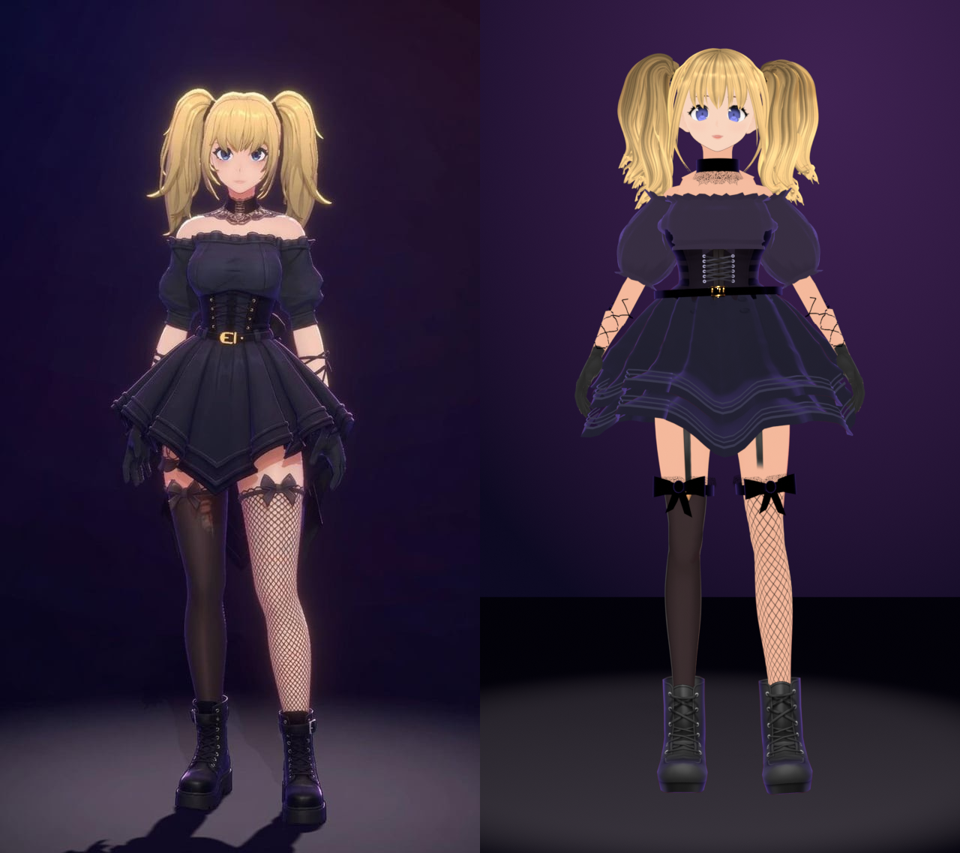
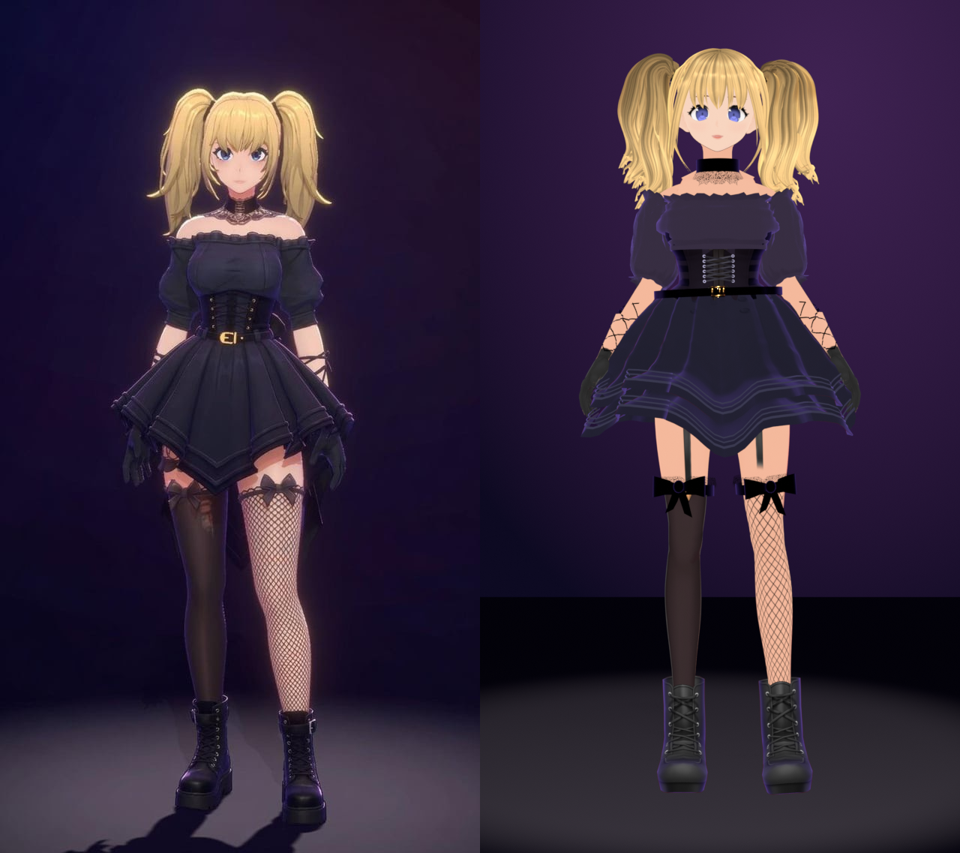
Goth agent: rounder bare shoulders, hanging sleeves, arms close to the body
The shoulders read wrong because the puff sleeves ballooned up above the
shoulder line (upper body ~28% wider than the reference) and covered the
shoulder caps, and the rebuilt arm was a thin tube. Now: an arm profile with
a round cap, a full upper arm and a taper to the elbow; sleeves that start
6 cm down the arm (2 cm underneath), are full just below the neckline and
gather into the cuff; bone weights for arm and sleeve copied from VRoid's own
long-sleeved blouse. The stage pose hangs the upper arms close to the body
with the forearms angled out, as in the reference; an edge overlay against
the reference now lines up at neckline, sleeves, bodice sides and belt.
The fitted blouse keeps the collar skin inside and never dips into the body
(it z-fought the skin on the upper back).

Claude-Session: https://claude.ai/code/session_011M9r3rTGgXhm4baeKDbpr3

diff --git a/build/tools/blender-agent-refine.py b/build/tools/blender-agent-refine.py
@@ -20,10 +20,14 @@ from mathutils.bvhtree import BVHTree
 p = argparse.ArgumentParser()
 p.add_argument('--blend', required=True); p.add_argument('--out', required=True)
 p.add_argument('--neckline', type=float, default=1.285)     # off-shoulder line on the torso (rest pose, m)
-p.add_argument('--sleeve-start', type=float, default=0.03)  # along the upper arm from the shoulder joint
+p.add_argument('--sleeve-start', type=float, default=0.06)  # along the upper arm from the shoulder joint
 p.add_argument('--sleeve-end', type=float, default=0.212)
-p.add_argument('--puff', type=float, default=0.80)        # (VRoid-sleeve mode only)
-p.add_argument('--puff-r', type=float, default=0.030)     # own sleeve: extra radius at the middle of the puff
+p.add_argument('--puff', type=float, default=0.80)
+p.add_argument('--sleeve-under', type=float, default=0.02)   # sleeve opening under the arm (it slants up to --sleeve-start on top)
+p.add_argument('--deltoid', type=float, default=0.005)
+p.add_argument('--arm-scale', type=float, default=1.0)     # upper-arm thickness
+p.add_argument('--sleeve-frill', type=float, default=0.014)  # ruffle on the sleeve's top edge       # extra shoulder-cap roundness        # (VRoid-sleeve mode only)
+p.add_argument('--puff-r', type=float, default=0.016)     # own sleeve: extra radius at the middle of the puff
 p.add_argument('--vroid-sleeves', action='store_true')     # keep and puff VRoid's sleeve instead of building one
 p.add_argument('--underbust', type=float, default=1.2)      # corset above this height becomes a navy bodice (0 = keep)
 p.add_argument('--skirt-len', type=float, default=0.30)     # bottom tier, between the points
@@ -257,6 +261,22 @@ BLOUSE = mats('N00_007_01_Tops_01_CLOTH'); SKIRT = mats('N00_002_03_Tops_01_CLOT
 PETTI = mats('N00_002_03_Tops_01_CLOTH_03'); CORSET = mats('N00_002_03_Tops_01_CLOTH_02'); TIE = mats('Accessory_Tie')
 SKIRT_TOP = max(v.co.z for f in bm.faces if f.material_index in SKIRT for v in f.verts)
 UA = B['J_Bip_L_UpperArm']; X0 = UA.head_local.x; AXY, AXZ = UA.head_local.y, UA.head_local.z
+BLW_co, BLW_w = [], []
+for v in {v for f in bm.faces if f.material_index in BLOUSE for v in f.verts}:
+    if abs(v.co.x) > X0 - 0.08 and v.co.z > AXZ - 0.14:
+        BLW_co.append(v.co.copy()); BLW_w.append(dict(v[dl].items()))
+BLKD = KDTree(len(BLW_co))
+for i_, c_ in enumerate(BLW_co): BLKD.insert(c_, i_)
+BLKD.balance()
+def blouse_weights(co, k=6):
+    """VRoid's own weights for this spot, from its (now cut) long-sleeved blouse: smooth across the shoulder."""
+    acc = {}
+    for c_, i_, d_ in BLKD.find_n(co, k):
+        w_ = 1.0 / max(d_, 1e-4) ** 2
+        for g_, x_ in BLW_w[i_].items(): acc[g_] = acc.get(g_, 0.0) + w_ * x_
+    tot = sum(acc.values()) or 1.0
+    return {g_: x_ / tot for g_, x_ in acc.items() if x_ / tot > 0.01}
+print('BLOUSE WEIGHTS sampled from', len(BLW_co), 'verts')
 kill = []
 for f in bm.faces:
     c = f.calc_center_median()
@@ -313,6 +333,11 @@ for v in sleeve:
 # arm skin: VRoid culls the body under clothing, so the upper arm and elbow have no skin once the
 # sleeve is short. Rebuild a tube from inside the puff to the forearm's open edge, weighted across the elbow.
 SKIN = mats('Body_00_SKIN'); uvl = bm.loops.layers.uv.active; OWN_SLEEVES = []
+ARM_PTS = [(-0.03, 0.024), (0.0, 0.036), (0.03, 0.041), (0.08, 0.040), (0.15, 0.036), (0.21, 0.031)]
+def arm_r(along):
+    """Upper-arm radius: shoulder cap, a full upper arm tapering toward the elbow (VRoid built no skin here)."""
+    xs_, rs_ = zip(*ARM_PTS); t_ = float(np.interp(along, xs_, rs_))
+    return t_ * a.arm_scale
 arm_skin = me.materials[min(SKIN)].copy(); arm_skin.name = 'Arm skin (no outline)'   # outlines are per-material modifiers
 me.materials.append(arm_skin); ARM_I = len(me.materials) - 1
 arm_skin.use_backface_culling = False                                             # the old back collar is seen from inside
@@ -357,13 +382,12 @@ for side, tag in ((1, 'L'), (-1, 'R')):
     for j in range(M + 1):
         t = j / M; x = x0 + (xr - x0) * t; row = []; ay, az = centre_at(x)
         for i in range(N):
-            th = -math.pi + 2 * math.pi * i / N; tt = min(1.0, max(0.0, (x - X0 - 0.004) / (xr - X0 - 0.004))); r = (rsh * (0.55 + 0.45 * min(1.0, max(0.0, (x - x0) / (X0 - x0)))) if x < X0 else 0.034) * (1 - tt) + R(th) * tt; xx = x   # tapered start hides inside the shoulder
+            th = -math.pi + 2 * math.pi * i / N; al = x - X0; xx = x
+            tt = min(1.0, max(0.0, (al - 0.21) / max(1e-4, xr - X0 - 0.21)))                 # into the real forearm past the elbow
+            r = arm_r(min(al, 0.21)) * (1 - tt) + R(th) * tt
+            r += a.deltoid * math.exp(-((x - X0 - 0.03) / 0.04) ** 2) * (0.35 + 0.65 * max(0.0, math.sin(th)))   # round shoulder cap
             v = bm.verts.new((side * xx, ay + r * math.cos(th), az + r * math.sin(th)))
-            wl = min(1, max(0, (x - (elbow - 0.03)) / 0.06))               # upper arm -> forearm across the elbow
-            wa = min(1, max(0, (x - (X0 - 0.01)) / 0.035))                 # shoulder -> upper arm across the joint
-            if wa < 1: v[dl][gs] = 1 - wa
-            if wa * (1 - wl) > 0: v[dl][gu] = wa * (1 - wl)
-            if wl > 0: v[dl][gl] = wl
+            for g_, w_ in blouse_weights(v.co).items(): v[dl][g_] = w_
             row.append(v)
         rings.append(row)
     for j in range(M):
@@ -372,7 +396,7 @@ for side, tag in ((1, 'L'), (-1, 'R')):
             f.material_index = ARM_I; f.smooth = True; f.normal_update(); c = f.calc_center_median()
             if f.normal.dot(Vector((0, c.y - (sy + ey) / 2, c.z - (sz + ez) / 2))) < 0: f.normal_flip()
             for l in f.loops: l[uvl].uv = skin_uv
-    print('ARM', tag, 'rebuilt x %.3f -> %.3f  centre (%.3f,%.3f)->(%.3f,%.3f)' % (x0, xr, sy, sz, ey, ez))
+    print('ARM', tag, 'rebuilt x %.3f -> %.3f  centre (%.3f,%.3f)->(%.3f,%.3f)  forearm r %.3f' % (x0, xr, sy, sz, ey, ez, sum(R_ for _, R_ in ang) / len(ang)))
     if not a.vroid_sleeves:
         OWN_SLEEVES.append((side, tag, centre_at))
 
@@ -384,11 +408,11 @@ def mid_texel(mat):
 SLEEVE_MAT = me.materials[BOD_I] if a.underbust else me.materials[min(BLOUSE)]
 SLEEVE_UV = mid_texel(SLEEVE_MAT)
 if not a.vroid_sleeves and a.underbust:   # what is left of VRoid's blouse is its upper-back panel: make it the blouse navy
-    nbp = nsk = 0; zn_ = AXZ - a.neckline_drop
+    nbp = nsk = 0; zn_ = AXZ - a.neckline_drop; COLLAR_F = []
     for f in bm.faces:
         if f.material_index in BLOUSE:
             if max(v.co.z for v in f.verts) > zn_ - 0.004 and skin_uv is not None:   # VRoid's stand collar behind the neck: skin, so the
-                f.material_index = ARM_I; nsk += 1                         # neck runs down into the shoulders instead of ending at it
+                f.material_index = ARM_I; nsk += 1; COLLAR_F.append(f)     # neck runs down into the shoulders instead of ending at it
                 for l in f.loops: l[uvl].uv = skin_uv
             else:
                 f.material_index = BOD_I; nbp += 1
@@ -405,15 +429,19 @@ if not a.vroid_sleeves and a.underbust:   # what is left of VRoid's blouse is it
         rl = math.hypot(v.co.x, v.co.y - ny_); t_ = min(1.0, max(0.0, (rl - rn_) / max(1e-4, X0 - rn_)))
         zmax = zb_ - (zb_ - zs_) * t_ ** 0.5
         if v.co.z > zmax: v.co.z = zmax; ncl += 1
+    COLLAR_CO = [v.co.copy() for f in COLLAR_F if f.is_valid for v in f.verts]
     print('COLLAR clamped', ncl, 'verts under the trapezius curve (neck r %.3f, %.3f -> %.3f)' % (rn_, zb_, zs_))
 for side, tag, centre_at in OWN_SLEEVES:
     sb = bmesh.new(); s0, s1 = X0 + a.sleeve_start, X0 + a.sleeve_end; NS, MS = 40, 22; rows_ = []
     for j in range(MS + 1):
-        u = j / MS; x = s0 + (s1 - s0) * u; cy2, cz2 = centre_at(x); row = []
-        bulge = math.sin(math.pi * u ** 1.35) ** 0.8                       # fullest two-thirds down, like a gathered sleeve
+        u = j / MS; row = []
+        bulge = math.sin(math.pi / 2 * min(1.0, u / 0.3)) * math.sin(math.pi / 2 * min(1.0, (1 - u) / 0.22)) ** 0.8   # full just below the neckline, hangs, gathers into the cuff
         for i in range(NS):
             th = -math.pi + 2 * math.pi * i / NS
-            r = 0.040 + a.puff_r * bulge
+            top = (math.sin(th) + 1) / 2                                   # 0 under the arm, 1 on top of the shoulder
+            s0t = X0 + a.sleeve_under + (a.sleeve_start - a.sleeve_under) * top ** 1.5
+            x = s0t + (s1 - s0t) * u; cy2, cz2 = centre_at(x)
+            r = arm_r(min(x - X0, 0.21)) + 0.006 + a.puff_r * bulge
             r *= 1 + 0.06 * math.sin(14 * th + 0.4 * j) * bulge ** 0.5          # gathers
             row.append(sb.verts.new((side * x, cy2 + r * math.cos(th), cz2 + r * math.sin(th))))
         rows_.append(row)
@@ -422,7 +450,7 @@ for side, tag, centre_at in OWN_SLEEVES:
             k = (i + 1) % NS; f = sb.faces.new((rows_[j][i], rows_[j][k], rows_[j + 1][k], rows_[j + 1][i])); f.normal_update()
             c = f.calc_center_median(); cy2, cz2 = centre_at(side * c.x)
             if f.normal.dot(Vector((0, c.y - cy2, c.z - cz2))) < 0: f.normal_flip()
-    for row, sgn, w in ((rows_[0], -1, 0.022), (rows_[-1], 1, 0.012)):          # frill on the off-shoulder line and on the cuff
+    for row, sgn, w in ((rows_[0], -1, a.sleeve_frill), (rows_[-1], 1, 0.012)):   # frill on the off-shoulder line and on the cuff
         edges = [e for e in sb.edges if all(v in set(row) for v in e.verts)]
         ret = bmesh.ops.extrude_edge_only(sb, edges=edges)
         for g in (g for g in ret['geom'] if isinstance(g, bmesh.types.BMVert)):
@@ -430,7 +458,13 @@ for side, tag, centre_at in OWN_SLEEVES:
             rad_.normalize()                                                             # soft gathered ruffle, not saw teeth
             g.co += (Vector((side * sgn * 0.55, 0, 0)) + rad_ * 0.85).normalized() * w * (1.0 + 0.22 * math.sin(11 * th_)) + rad_ * 0.004 * math.cos(11 * th_)
     for f in sb.faces: f.smooth = True
-    rigged('Sleeve ' + tag, sb, SLEEVE_MAT, 'J_Bip_%s_UpperArm' % tag, uv=SLEEVE_UV)
+    sob = rigged('Sleeve ' + tag, sb, SLEEVE_MAT, 'J_Bip_%s_UpperArm' % tag, uv=SLEEVE_UV)
+    sob.vertex_groups.clear(); groups_ = {}
+    for v in sob.data.vertices:
+        for g_, w_ in blouse_weights(v.co).items():
+            nm = body.vertex_groups[g_].name
+            if nm not in groups_: groups_[nm] = sob.vertex_groups.new(name=nm)
+            groups_[nm].add([v.index], w_, 'REPLACE')
     print('SLEEVE', tag, 'x %.3f -> %.3f' % (s0, s1))
 
 for side, tag in ((1, 'L'), (-1, 'R')):
@@ -569,25 +603,28 @@ if a.blouse and a.underbust:
     src = sorted({i for p_ in me.polygons if p_.material_index in keep for i in p_.vertices
                   if abs(me.vertices[i].co.x) < X0 - 0.005 and zb0 - 0.02 < me.vertices[i].co.z < zn + 0.02})
     cyB = sum(me.vertices[i].co.y for i in src) / len(src)
+    EXTRA = [c for c in globals().get('COLLAR_CO', []) if abs(c.x) < X0 - 0.005 and zb0 - 0.02 < c.z < zn + 0.02]   # the skin collar must stay inside
     NB, rows_z = 72, list(np.arange(zb0, zn + 1e-6, 0.006))
     R = np.zeros((len(rows_z), NB))
     for ri, zr in enumerate(rows_z):
-        pts = [me.vertices[i].co for i in src if abs(me.vertices[i].co.z - zr) < 0.012]
+        pts = [me.vertices[i].co for i in src if abs(me.vertices[i].co.z - zr) < 0.012] + [c for c in EXTRA if abs(c.z - zr) < 0.012]
         ang = np.array([math.atan2(q.y - cyB, q.x) for q in pts]); rad = np.array([math.hypot(q.x, q.y - cyB) for q in pts])
         for k in range(NB):
             th = -math.pi + 2 * math.pi * k / NB; dth = np.abs((ang - th + math.pi) % (2 * math.pi) - math.pi)
             sel = rad[dth < 0.2]; R[ri, k] = sel.max() if len(sel) else np.nan
         row = R[ri]; good = ~np.isnan(row)
         R[ri] = np.interp(np.arange(NB), np.arange(NB)[good], row[good], period=NB) if good.any() else R[ri - 1]
+    R0 = R.copy()
     for _ in range(2):   # smooth around and up
         R = (np.roll(R, 1, 1) + 2 * R + np.roll(R, -1, 1)) / 4
         R[1:-1] = (R[:-2] + 2 * R[1:-1] + R[2:]) / 4
+    R = np.maximum(R, R0)                                  # smooth, but never inside the body (it z-fought the skin)
     bb2 = bmesh.new(); vrows = []
     for ri, zr in enumerate(rows_z):
         f_ = (zr - zb0) / max(1e-4, zn - zb0); vr = []
         for k in range(NB):
             th = -math.pi + 2 * math.pi * k / NB
-            r = R[ri, k] + (0.006 if zr > zb0 + 0.012 else 0.001) + 0.004 * math.sin(20 * th) * f_ ** 1.5   # gathers toward the top
+            r = R[ri, k] + (0.006 + 0.005 * f_ if zr > zb0 + 0.012 else 0.001) + 0.004 * max(0.0, math.sin(20 * th)) * f_ ** 1.5   # gathers toward the top, only outward
             vr.append(bb2.verts.new((r * math.cos(th), cyB + r * math.sin(th), zr)))
         vrows.append(vr)
     for ri in range(len(vrows) - 1):

diff --git a/build/tools/blender-agent-stage.py b/build/tools/blender-agent-stage.py
@@ -30,7 +30,8 @@ if arm_ and POSE == 'relaxed':
     rot('J_Bip_C_Hips', 'Y', -2); rot('J_Bip_C_Spine', 'Y', 1.5); rot('J_Bip_C_Head', 'Y', 2)
     for side, sgn in (('L', 1), ('R', -1)):
         rot('J_Bip_%s_Shoulder' % side, 'Y', sgn * 4)
-        rot('J_Bip_%s_UpperArm' % side, 'Y', sgn * 62)       # out far enough to clear the flared skirt
+        rot('J_Bip_%s_UpperArm' % side, 'Y', sgn * float(os.environ.get('STAGE_ARM', 70)))   # upper arms hang close to the body
+        rot('J_Bip_%s_LowerArm' % side, 'Y', -sgn * float(os.environ.get('STAGE_FOREARM', 12)))   # forearms angle out past the skirt
         rot('J_Bip_%s_LowerArm' % side, 'X', -24)            # soft elbow: hands come forward to the skirt's edge
         rot('J_Bip_%s_Hand' % side, 'X', 8)
         rot('J_Bip_%s_UpperLeg' % side, 'Y', -sgn * 2.5)

diff --git a/design/blender/agent/README.md b/design/blender/agent/README.md
@@ -123,13 +123,17 @@ What VRoid Studio cannot do is done by `build/tools/blender-agent-refine.py`,
 which runs on the scene the avatar script saves and edits it toward the
 reference picture:
 
-- **Top**: VRoid's sleeve is removed (its front was erased in VRoid) and a
-  gathered puff sleeve is built on each upper arm from the shoulder joint
-  to just above the elbow, fullest two-thirds of the way down, with frills on the off-shoulder line and the cuff,
-  in the bodice's navy. `--vroid-sleeves` keeps and puffs VRoid's instead. VRoid removes the body under clothing at export, so the upper
-  arm is rebuilt as a skin tube from over the shoulder to the forearm's open
-  edge, weighted across the elbow. The blouse's back panel stays, because
-  there is no skin under it either.
+- **Arms and sleeves**: VRoid builds no skin under a long sleeve, so each
+  upper arm is rebuilt as a skin tube from inside the shoulder to the
+  forearm, with a real arm profile (round shoulder cap, full upper arm
+  tapering to the elbow) instead of a thin cylinder. Its bone weights, and
+  the sleeve's, are copied from VRoid's own long-sleeved blouse before that
+  is cut away, so they bend smoothly across the shoulder. The puff sleeve
+  starts 6 cm down the arm on top and 2 cm underneath, so the round bare
+  shoulder cap shows above it; it is full just below the neckline, hangs,
+  and gathers into a cuff above the elbow, sized off the arm profile. It
+  has a ruffle on its top edge and on the cuff, in the blouse navy.
+  `--vroid-sleeves` keeps and puffs VRoid's sleeve instead.
 - **Blouse**: the corset above the underbust line becomes navy, and a
   fitted gathered blouse is built over the upper torso: its shape is the
   largest radius of the torso at each height and angle (so it bridges the
@@ -205,8 +209,8 @@ torso length does not need new numbers. Every new piece is weighted to a bone an
 weights, so the rig, mouth shapes and the lip-sync script all keep working.
 `build/tools/blender-agent-stage.py` renders the full-length character sheet
 the reference uses: dark indigo stage, overhead spot, violet and pink rims,
-neutral face, and a relaxed stance (arms angled out past the flared skirt
-with soft elbows and relaxed, curled fingers, one knee eased forward, a
+neutral face, and a relaxed stance (upper arms hanging close to the body,
+forearms angled out past the flared skirt, soft elbows and relaxed, curled fingers, one knee eased forward, a
 slight turn through the hips and head). The pose is applied to the render only; `STAGE_POSE=saved`
 keeps the scene's own pose. Its bone helper rotates about world axes
 through each bone's head, parents first: a child bone's local rotation
